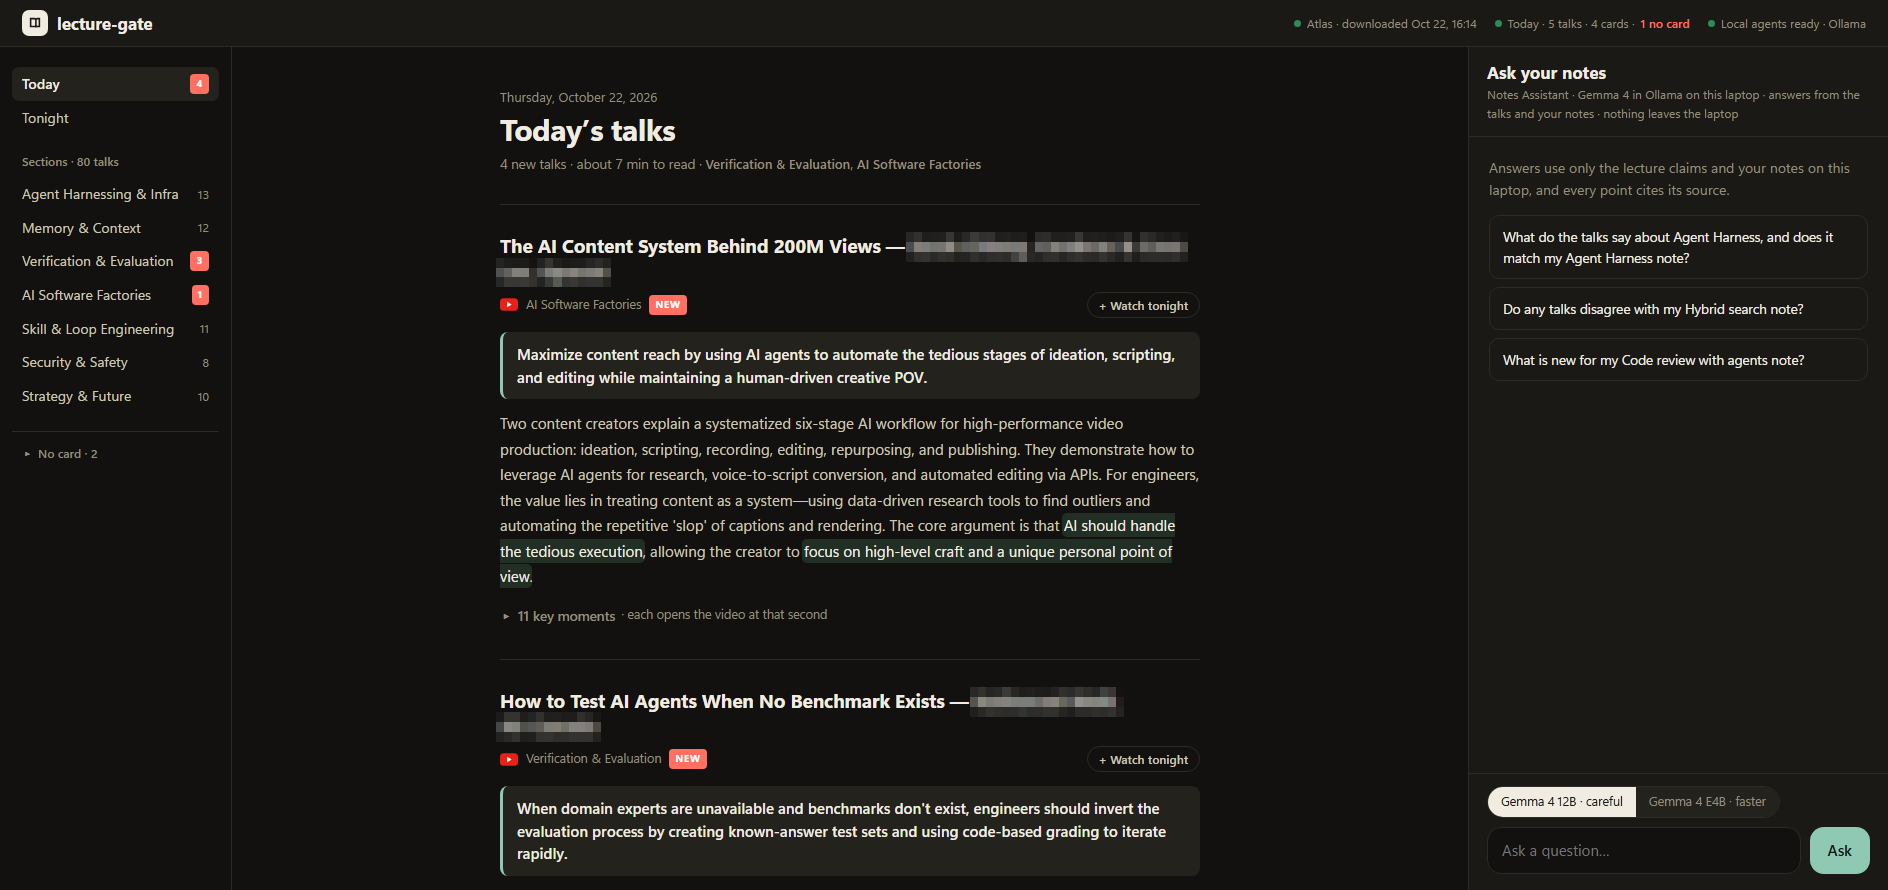
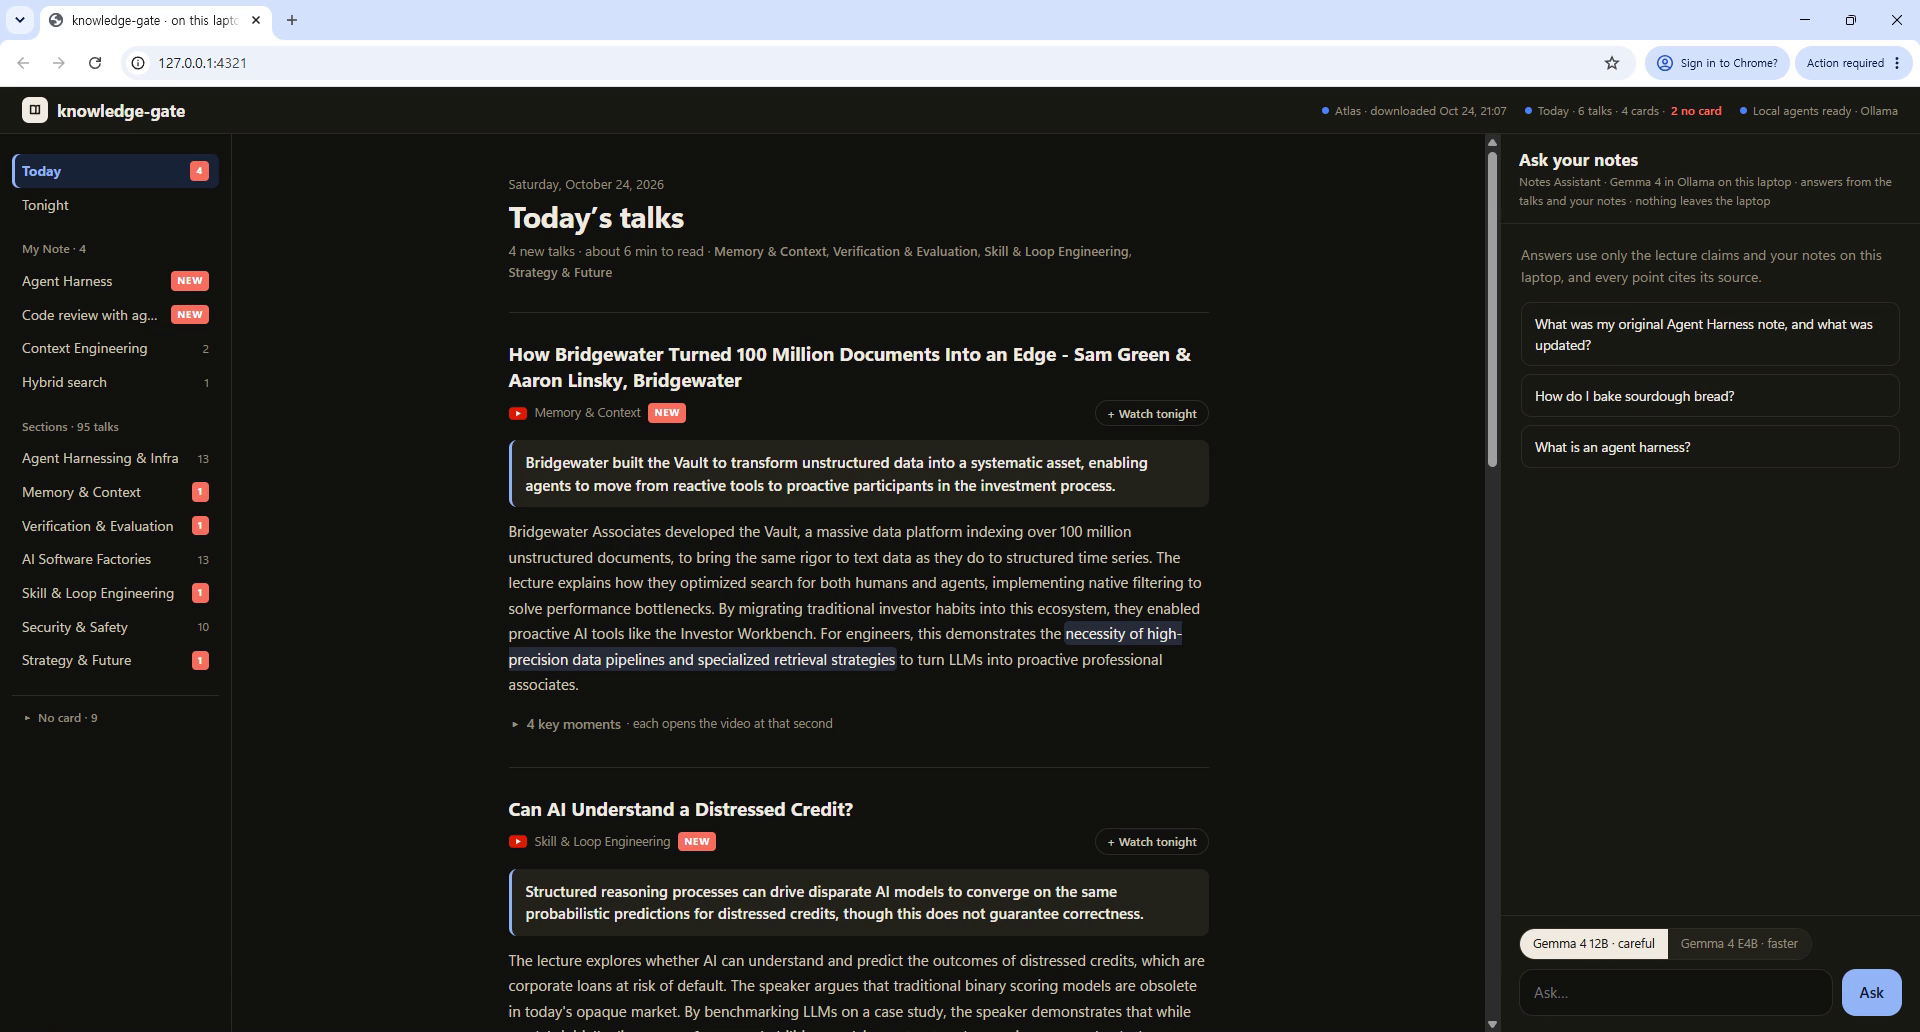
README: demo video, current numbers, today's real page; fix stale and repeated lines
- Demo video link; the top screenshot is now the real page in Chrome on 127.0.0.1 (Oct 24).
- Numbers counted on the evening of Oct 24 (95 talks, 356 concepts, 397 of 444 quotes).
- Task Scheduler runs the morning step at log-in and unlock; suggested questions take the
  fast spoken path; Whisper adds about 3-5 s; privacy exceptions listed one per line.
- Removed the "green marks" wording and a repeated 127.0.0.1 sentence.

Changed region(s): [[0.0, 0.0, 1.0, 1.0], [0.25, 0.7584, 0.625, 1.0], [0.9375, 0.9101, 1.0, 1.0]]

diff --git a/README.md b/README.md
@@ -5,7 +5,9 @@ what is new to my own notes, and my notes never leave my laptop.**
 
 ![The morning page on my laptop: today's new talks, each with a one-line conclusion, a summary with marked key phrases, and the "Ask your notes" panel](docs/images/morning-page.png)
 
-*The morning page at `http://127.0.0.1:4321` (Oct 22). Speaker names are blurred in this screenshot.*
+*The morning page in Chrome at `http://127.0.0.1:4321` on my laptop (Oct 24), with the talks that arrived that day.*
+
+**Demo video (1:59):** https://youtu.be/PV8kGpaRnAo
 
 > The project's working name was lecture-gate. Internal names keep it: the Atlas database `lecture_gate`, the Sentry
 > project, the Temporal task queue, the Backboard assistant and the `lg-*` services. Some screenshots show that name.
@@ -138,13 +140,13 @@ two concepts named in the same talk. The largest dot is Agent Harness.*
 ### On the laptop
 
 `npm run morning` (`src/cli/morning.ts`) runs three steps; on Windows, `deploy/morning-task.ps1` runs it from Task
-Scheduler at log-in:
+Scheduler when I log in or unlock the laptop:
 
 1. pull the cards and map data from Atlas,
 2. merge the new talks into my notes with the local Note Merger,
 3. mark the key phrases of each new summary for the morning page.
 
-Then `npm run web` serves the morning page on `127.0.0.1` only.
+Then `npm run web` serves the morning page ([below](#the-morning-page)).
 
 ## The AI agents, one job each
 
@@ -154,7 +156,7 @@ Then `npm run web` serves the morning page on `127.0.0.1` only.
 | **Quote Checker** | server | none, plain code | Looks for each quote word for word in the transcript. Only quotes that are found are shown. |
 | **Concept Matcher** | server | BAAI bge-m3 embeddings + Atlas Vector Search + Gemma 4 31B | Finds the 6 closest existing concept mentions and decides whether a new mention is one of them or a new concept, so ten talks about one idea become one concept page. |
 | **Note Merger** | laptop | Gemma 4 12B + EmbeddingGemma (Ollama) | Finds the note each new claim belongs to and adds only what the note does not already say. |
-| **Highlighter** | laptop | Gemma 4 12B (Ollama) | Picks one or two key phrases per summary for the green marks on the page. |
+| **Highlighter** | laptop | Gemma 4 12B (Ollama) | Picks one or two key phrases per summary for the marks on the page. |
 | **Notes Assistant** | laptop | Gemma 4 12B or E4B (Ollama) | Answers typed questions from the talks and my notes, with sources. |
 
 There is also a nightly **Rule Tester** (`src/agent/verify.ts`, a systemd timer at 03:00 UTC, outside Mastra): it turns
@@ -249,10 +251,14 @@ language model, so they come back fast:
   verified quotes.
 - Any other question is answered from the search alone: the start of my closest note in my own words, plus up to two
   close talk claims with their quotes. The page server loads the search model at start so the first spoken
-  question answers in under a second (smoke tests on Oct 24 measured about 0.2 to 0.6 s per answer).
+  question answers in under a second (smoke tests on Oct 24 measured about 0.2 to 0.6 s per answer). Whisper itself
+  adds about 3 to 5 s on my CPU before that.
 - If nothing in the talks or my notes is close enough, the answer is a fixed "not in your notes" reply, and the
   question is saved to `data/open_questions.json` on the laptop. When a later talk seems to answer it, the morning
   merge flags it.
+
+The suggested questions under "Ask your notes" take the same fast path when tapped, so it also works without
+the mic.
 
 ![A spoken question "How do I bake sourdough bread?" answered with "There's nothing on that in your notes yet. I've noted your question…", search only, no model](docs/images/voice-not-in-notes.png)
 
@@ -268,10 +274,11 @@ That mode is for the demo only.
   `ollama/...`.
 - `notes/` and `data/` are gitignored; only public talk data goes to MongoDB Atlas.
 - Voice (only with `--stt whisper`) is transcribed on the laptop; the Whisper weights are downloaded once.
-- Exceptions, so you know exactly what goes out from the laptop: the morning pull from Atlas; in ElevenLabs demo
-  mode, the spoken answer text; and while a slow spoken answer is loading, the page server fetches the weather from
-  Open-Meteo, only when started with `--city <name>` (only the city name is sent), for the host's waiting lines, and also requests the Hacker News top
-  stories (see the last limit below).
+- Exceptions, so you know exactly what goes out from the laptop:
+  - the morning pull from Atlas;
+  - in ElevenLabs demo mode, the text of the spoken answers;
+  - while a slow spoken answer is loading, the page server requests the Hacker News top stories (see the last limit
+    below) and, only when started with `--city <name>`, the weather from Open-Meteo (only the city name is sent).
 
 ## Stack
 
@@ -282,12 +289,12 @@ That mode is for the demo only.
   Sentry for errors and model-call timings on the server (only timings and token counts, never prompts or outputs).
 - **Language**: TypeScript on Node 22, run with `tsx`.
 
-## Numbers (checked against the data in this repo on 2026-10-24)
+## Numbers (counted on my laptop on the evening of 2026-10-24)
 
-- 92 talks with a card, 352 concept pages in 7 categories.
-- 386 of 432 quotes (89%) were found word for word in their transcript; only those are shown.
-- The morning merge on Oct 24 brought in 6 talks and added 25 new points, all to the category notes in
-  `notes/sections/`.
+- 95 talks with a card, 356 concept pages in 7 categories.
+- 397 of 444 quotes (89%) were found word for word in their transcript; only those are shown.
+- That evening two merges brought in 3 new talks and added 12 points: 2 to my own notes (Agent Harness, Code review
+  with agents) and 10 to the category notes in `notes/sections/`.
 
 ## Run it
 
